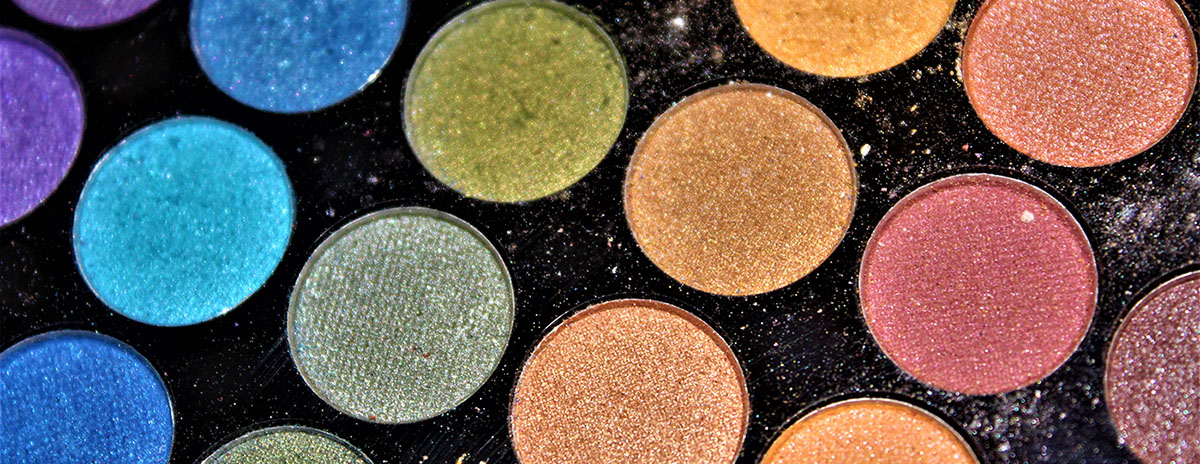
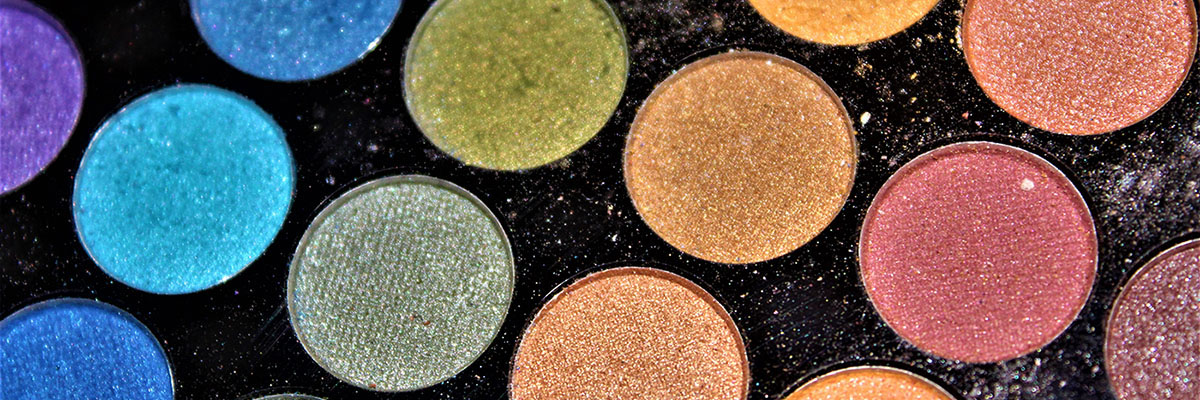
fixed map/key bug; resized header img

diff --git a/src/pages/CartPage.js b/src/pages/CartPage.js
@@ -1,14 +1,16 @@
-import { Fragment, useContext } from "react";
+import { Fragment, useContext, useState } from "react";
 import { Container } from "@mui/material";
 import CartItemCard from "../components/CartItemCard";
 import { useNavigate } from "react-router-dom";
 import Button from "@mui/material/Button";
 import CartContext from "../providers/CartContext";
 import Stack from '@mui/material/Stack';
+import { TransitionGroup } from 'react-transition-group';
 
 const CartPage = (props) => {
   const navigate = useNavigate();
   const cartCtx = useContext(CartContext);
+ 
 
   const cartItems = cartCtx.state.items.map((item) => (
     <CartItemCard key={item.id} name product={item} />

diff --git a/src/pages/Home.js b/src/pages/Home.js
@@ -10,7 +10,7 @@ function Home() {
   return (
     <Fragment>
       {productContext.products.length > 0 &&
-        productContext.products.map((category) => <ProductCategory category={category} />)}
+        productContext.products.map((category) => <ProductCategory key={category.name} category={category} />)}
       {productContext.isLoading && <Loader />}
     </Fragment>
   );

diff --git a/src/pages/CategoryPage.js b/src/pages/CategoryPage.js
@@ -1,6 +1,5 @@
 import React, { useContext } from "react";
 import { useParams } from "react-router-dom";
-import Typography from "@mui/material/Typography";
 import Box from "@mui/material/Box";
 import ProductDataContext from "../providers/ProductDataContext";
 import ProductCard from "../components/ProductCard";
